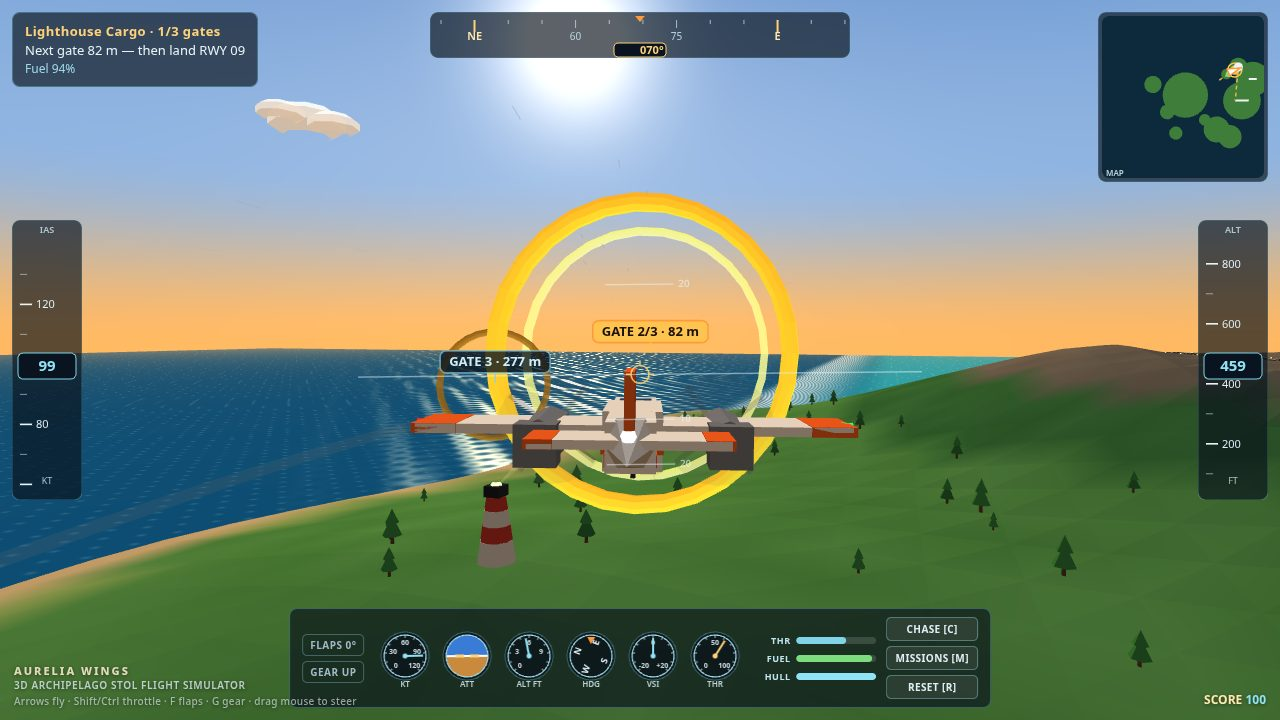
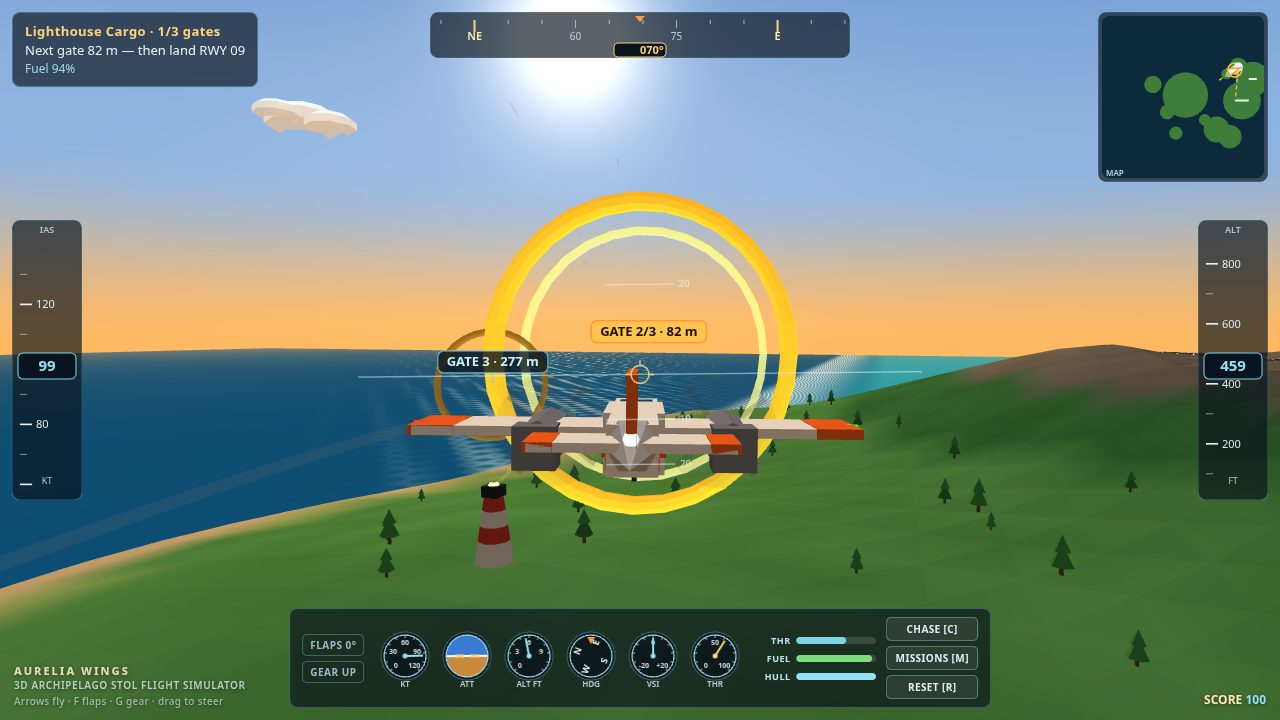
Reviser round 3: nose gear fix, canopy frame raised, yoke shrunk, sea glitter off

diff --git a/game/src/plane.js b/game/src/plane.js
@@ -60,8 +60,14 @@ export function buildPlaneMeshes(gl) {
     gear.addCylinder([s * 1.1, -2.15, -1.2], 0.55, 0.55, 0.35, 8, [0.08, 0.08, 0.09],
       mat4RotateZ(Math.PI / 2));
   }
-  gear.addCylinder([0, -1.75, 4.6], 0.1, 0.1, 1.4, 5, DARK);
-  gear.addCylinder([0, -2.28, 4.6], 0.42, 0.42, 0.3, 8, [0.08, 0.08, 0.09],
+  // Nose gear: a short strut under the nose belly (bottom y = -0.85)
+  // with the wheel bottom at y = -2.70, level with the main wheels.
+  // The old third wheel sat under the TAIL (z = +4.6) on a long strut
+  // that stopped 0.55 m short of the tail belly (y = -0.50), so it
+  // floated in mid-air — and, nearest the chase camera, it projected
+  // as a black pole splitting the runway threshold in the final shot.
+  gear.addCylinder([0, -1.57, -2.6], 0.1, 0.1, 1.45, 5, DARK);
+  gear.addCylinder([0, -2.28, -2.6], 0.42, 0.42, 0.3, 8, [0.08, 0.08, 0.09],
     mat4RotateZ(Math.PI / 2));
   // Belly antenna and pitot.
   b.addCylinder([0, -1.05, 1.5], 0.06, 0.1, 0.7, 5, DARK);
@@ -147,24 +153,33 @@ export function buildPlaneMeshes(gl) {
   for (const lx of [-0.45, 0.45]) {
     cockpit.addBox([lx, 0.745, -0.95], [0.07, 0.03, 0.07], mI, [1.0, 0.8, 0.3]);
   }
-  // A-pillars: from the panel's top corners UP-FORWARD along the
-  // windscreen edges to the roof beam — a canopy frame, not a fence
-  // rail. Thin (0.08), outboard of the nose (x = ±0.95) so the whole
-  // pillar shows instead of vanishing inside the nose box.
+  // A-pillars: from the panel's top corners steeply UP-FORWARD to the
+  // roof beam — a canopy frame, not a fence rail. Thin (0.08), outboard
+  // of the nose (x = ±0.95) so the whole pillar shows instead of
+  // vanishing inside the nose box. The old pillars lay almost flat
+  // (rotated -1.28 rad) and the beam sat at y = 1.0, only 5 cm above
+  // the pilot's eye — a black bar straight across the horizon that cut
+  // the gate ring in two. Now the frame sits ~18° above horizontal,
+  // near the top of the windscreen, well clear of the horizon and the
+  // gate: beam y = 1.9, pillars tilted -0.68 rad from vertical.
   for (const s of [-1, 1]) {
-    cockpit.addBox([s * 0.95, 0.86, -1.52], [0.08, 1.1, 0.08], mat4RotateX(-1.28), DASH);
+    cockpit.addBox([s * 0.95, 1.31, -1.53], [0.08, 1.52, 0.08], mat4RotateX(-0.68), DASH);
   }
   // Roof beam across the top of the windscreen, thin so it reads as
   // the roof edge, not a bar across the sky.
-  cockpit.addBox([0, 1.0, -2.0], [1.95, 0.05, 0.05], mI, DASH);
-  // Yoke: column, crossbar grip and two hand grips, light grey so it
-  // reads against the dark panel, tall enough to clear the panel top.
-  // The bar sits just above the dials so the whole yoke reads as one
-  // piece instead of two floating blocks.
-  cockpit.addBox([0, 0.42, -0.15], [0.09, 0.5, 0.09], mI, YOKE);
-  cockpit.addBox([0, 0.66, -0.18], [0.52, 0.09, 0.09], mI, YOKE);
+  cockpit.addBox([0, 1.9, -2.0], [1.95, 0.05, 0.05], mI, DASH);
+  // Yoke: low and compact, tucked BELOW the dial row. The old yoke's
+  // crossbar sat at y = 0.66, z = -0.18 — from the pilot's eye that
+  // projects onto the dial faces (dial centres read at ~14° below
+  // horizontal; the old bar at ~15°), hiding dials 3–4 almost fully
+  // and dials 2 & 5 halfway. The new bar tops out at y = 0.57, which
+  // projects ~19.5° below horizontal, just under the dial bottoms
+  // (~17.7°), so all six dials read whole; the column rises from the
+  // floor between the side consoles, in the gap between dials 3 and 4.
+  cockpit.addBox([0, 0.34, -0.15], [0.08, 0.40, 0.08], mI, YOKE);
+  cockpit.addBox([0, 0.54, -0.18], [0.38, 0.06, 0.08], mI, YOKE);
   for (const s of [-1, 1]) {
-    cockpit.addBox([s * 0.22, 0.72, -0.18], [0.09, 0.14, 0.09], mI, YOKE);
+    cockpit.addBox([s * 0.16, 0.53, -0.18], [0.07, 0.06, 0.07], mI, YOKE);
   }
   // Cabin floor and kick panels: they sit just above the wing (top
   // y = 0.32), so from the seat the wing never shows through the floor.

diff --git a/game/src/hud.js b/game/src/hud.js
@@ -406,10 +406,18 @@ export class Hud {
     const ctx = setupCanvas(c);
     const w = c.clientWidth, h = c.clientHeight;
     ctx.clearRect(0, 0, w, h);
-    const cx = w / 2, cy = h * 0.52;
+    const cx = w / 2;
+    // In the cockpit the old centre (h*0.52) put the crosshair and the
+    // pitch ladder on the black glareshield, below the horizon — the
+    // ladder rungs hung over the dashboard. In cockpit view the marker
+    // rides up into the windscreen sky (h*0.40) and the ladder is
+    // hidden: the attitude dial already shows pitch, and a ladder here
+    // would only cross the gate ring. Chase view keeps the full ladder.
+    const cy = camMode === 'cockpit' ? h * 0.40 : h * 0.52;
     // Pitch ladder, thin and quiet, centred where the nose points.
     // The whole ladder slides with pitch (nose up → horizon drops on
     // screen); the old code only rolled it, so it never moved.
+    if (camMode !== 'cockpit') {
     ctx.save();
     const pxPerDeg = 4.5;
     ctx.translate(cx, cy + flight.pitch * pxPerDeg);
@@ -433,6 +441,7 @@ export class Hud {
       ctx.fillText(String(Math.abs(deg)), len + 5, y + 3);
     }
     ctx.restore();
+    }
     // Flight-path marker.
     ctx.strokeStyle = 'rgba(255, 210, 122, 0.85)';
     ctx.lineWidth = 1.6;

diff --git a/game/src/renderer.js b/game/src/renderer.js
@@ -115,12 +115,11 @@ void main() {
   vec3 viewDir = normalize(uCamPos - vWorld);
   vec3 refl = reflect(-uSunDir, n);
   float spec = pow(max(dot(refl, viewDir), 0.0), 90.0);
-  col += vec3(1.0, 0.75, 0.45) * spec * 1.6;
-  // Soft large-scale shimmer, not sparkle: the old 0.9 rad/m glitter
-  // aliased into white moiré speckle at any distance. Longer waves,
-  // gentler power, a third of the strength.
-  float glitter = pow(max(0.0, sin(vWorld.x * 0.22 + uTime * 0.8) * sin(vWorld.z * 0.19 - uTime * 0.6)), 6.0);
-  col += vec3(1.0, 0.9, 0.7) * glitter * 0.10;
+  // Gentle sun glitter only: the old *1.6 gain painted hard zebra
+  // bands across the water at a distance.
+  col += vec3(1.0, 0.75, 0.45) * spec * 0.5;
+  // No dot-grid glitter: the old sin(x*0.22)*sin(z*0.19) term aliased
+  // into rows of bright dots (a visible grid) on the sea.
   float foam = smoothstep(0.02, 0.10, land) * (0.75 + 0.25 * sin(vWorld.x * 0.6 + vWorld.z * 0.5 + uTime * 1.2));
   foam *= smoothstep(0.55, 0.12, land);
   col = mix(col, vec3(0.95, 0.98, 0.95), clamp(foam, 0.0, 1.0) * 0.8);

diff --git a/game/index.html b/game/index.html
@@ -123,7 +123,7 @@
   </div>
 </div>
 
-<div id="wordmark">AURELIA WINGS<small>3D ARCHIPELAGO STOL FLIGHT SIMULATOR</small><span class="hint">Arrows fly · Shift/Ctrl throttle · F flaps · G gear · drag mouse to steer</span></div>
+<div id="wordmark">AURELIA WINGS<small>3D ARCHIPELAGO STOL FLIGHT SIMULATOR</small><span class="hint">Arrows fly · F flaps · G gear · drag to steer</span></div>
 <div id="score-chip">SCORE <span id="score">0</span></div>
 
 <script>
